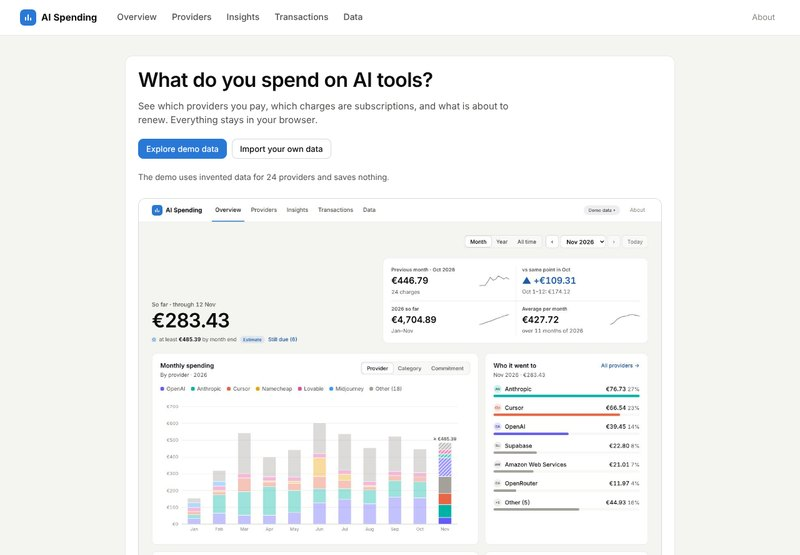
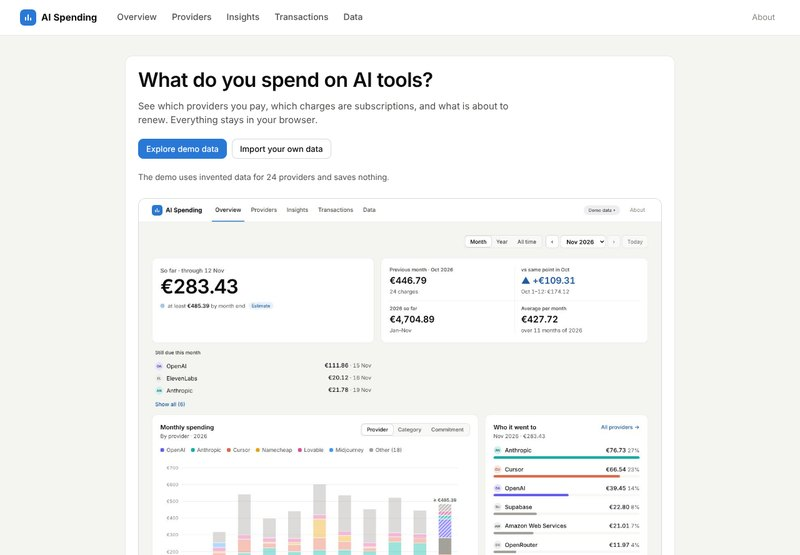
Overview screenshots for the hero card; changelog tidy
Claude-Session: https://claude.ai/code/session_01Qfp4rLyXRfcCbxc21jCuL9

diff --git a/CHANGELOG.md b/CHANGELOG.md
@@ -11,7 +11,7 @@ All notable changes to this project are listed here. The format follows [Keep a 
 - New palette: indigo, teal, orange, amber, pink and blue for providers, a grey Other, the same hues for categories (Domains is a deep pink so no two neighbours clash) and indigo, teal and amber for Subscription, Usage and One-time. Validated in light and dark; orange and amber were moved in lightness where the validator required it. Bars of periods that are not selected fade to 38%.
 - Type scale: hero 48px, stat tile values 22px. Sections inside a card are separated by 24px of space, not divider lines (tables and lists keep theirs).
 - Demo mode is a small "Demo data" pill in the top bar with a menu (Use my own data, Exit demo), replacing the yellow banner.
-- Shared UI standards and a new shell. Design tokens live in one file (`src/tokens.css`) used by the app and the static pages: four text colours, an 8/12/16/24/32 spacing scale, no red or green for spending (an exceeded budget is amber). New shared components: `Button` (primary, secondary, text, danger), `Input`, `Select`, `Field`, `Table`, `Descriptor` (monospace statement text), `StatTile` with an optional sparkline, `ProviderAvatar` (initials on the provider colour) and `ChangeArrow`. Every page uses them. Provider pages no longer show the review line; the Providers list calls its pill "N to check".
+- Shared UI standards and a new shell. Design tokens live in one file (`src/tokens.css`) used by the app and the static pages: four text colours, an 8/12/16/24/32 spacing scale, no red or green for spending (an exceeded budget is amber). New shared components: `Button` (primary, secondary, text, danger), `Input`, `Select`, `Field`, `Table`, `Descriptor` (monospace statement text), `StatTile`, `ProviderAvatar` (initials on the provider colour) and `ChangeArrow`. Every page uses them. Provider pages no longer show the review line; the Providers list calls its pill "N to check".
 - Navigation is a top bar (logo, Overview, Providers, Insights, Transactions, Data, and About on the right). On a phone the five pages are a bottom tab bar. The old rail footer (transactions, total recorded, data through, where data is stored) is a row of tiles on the Data page; the Overview header says "Data through <date>". "Data through <date>" replaces "Last import" and "As of last import" everywhere: the date is the newest charge, not when a file was imported.
 - Provider avatars are a light tint of the provider colour with initials in a dark shade of the same hue (light and dark in dark mode), like the pills. Every colour in the palette, grey included, keeps at least 6:1 contrast, and a test checks 4.5:1.
 - The Welcome page shows the Overview (demo data) below its buttons, in the dark version for browsers in dark mode.
